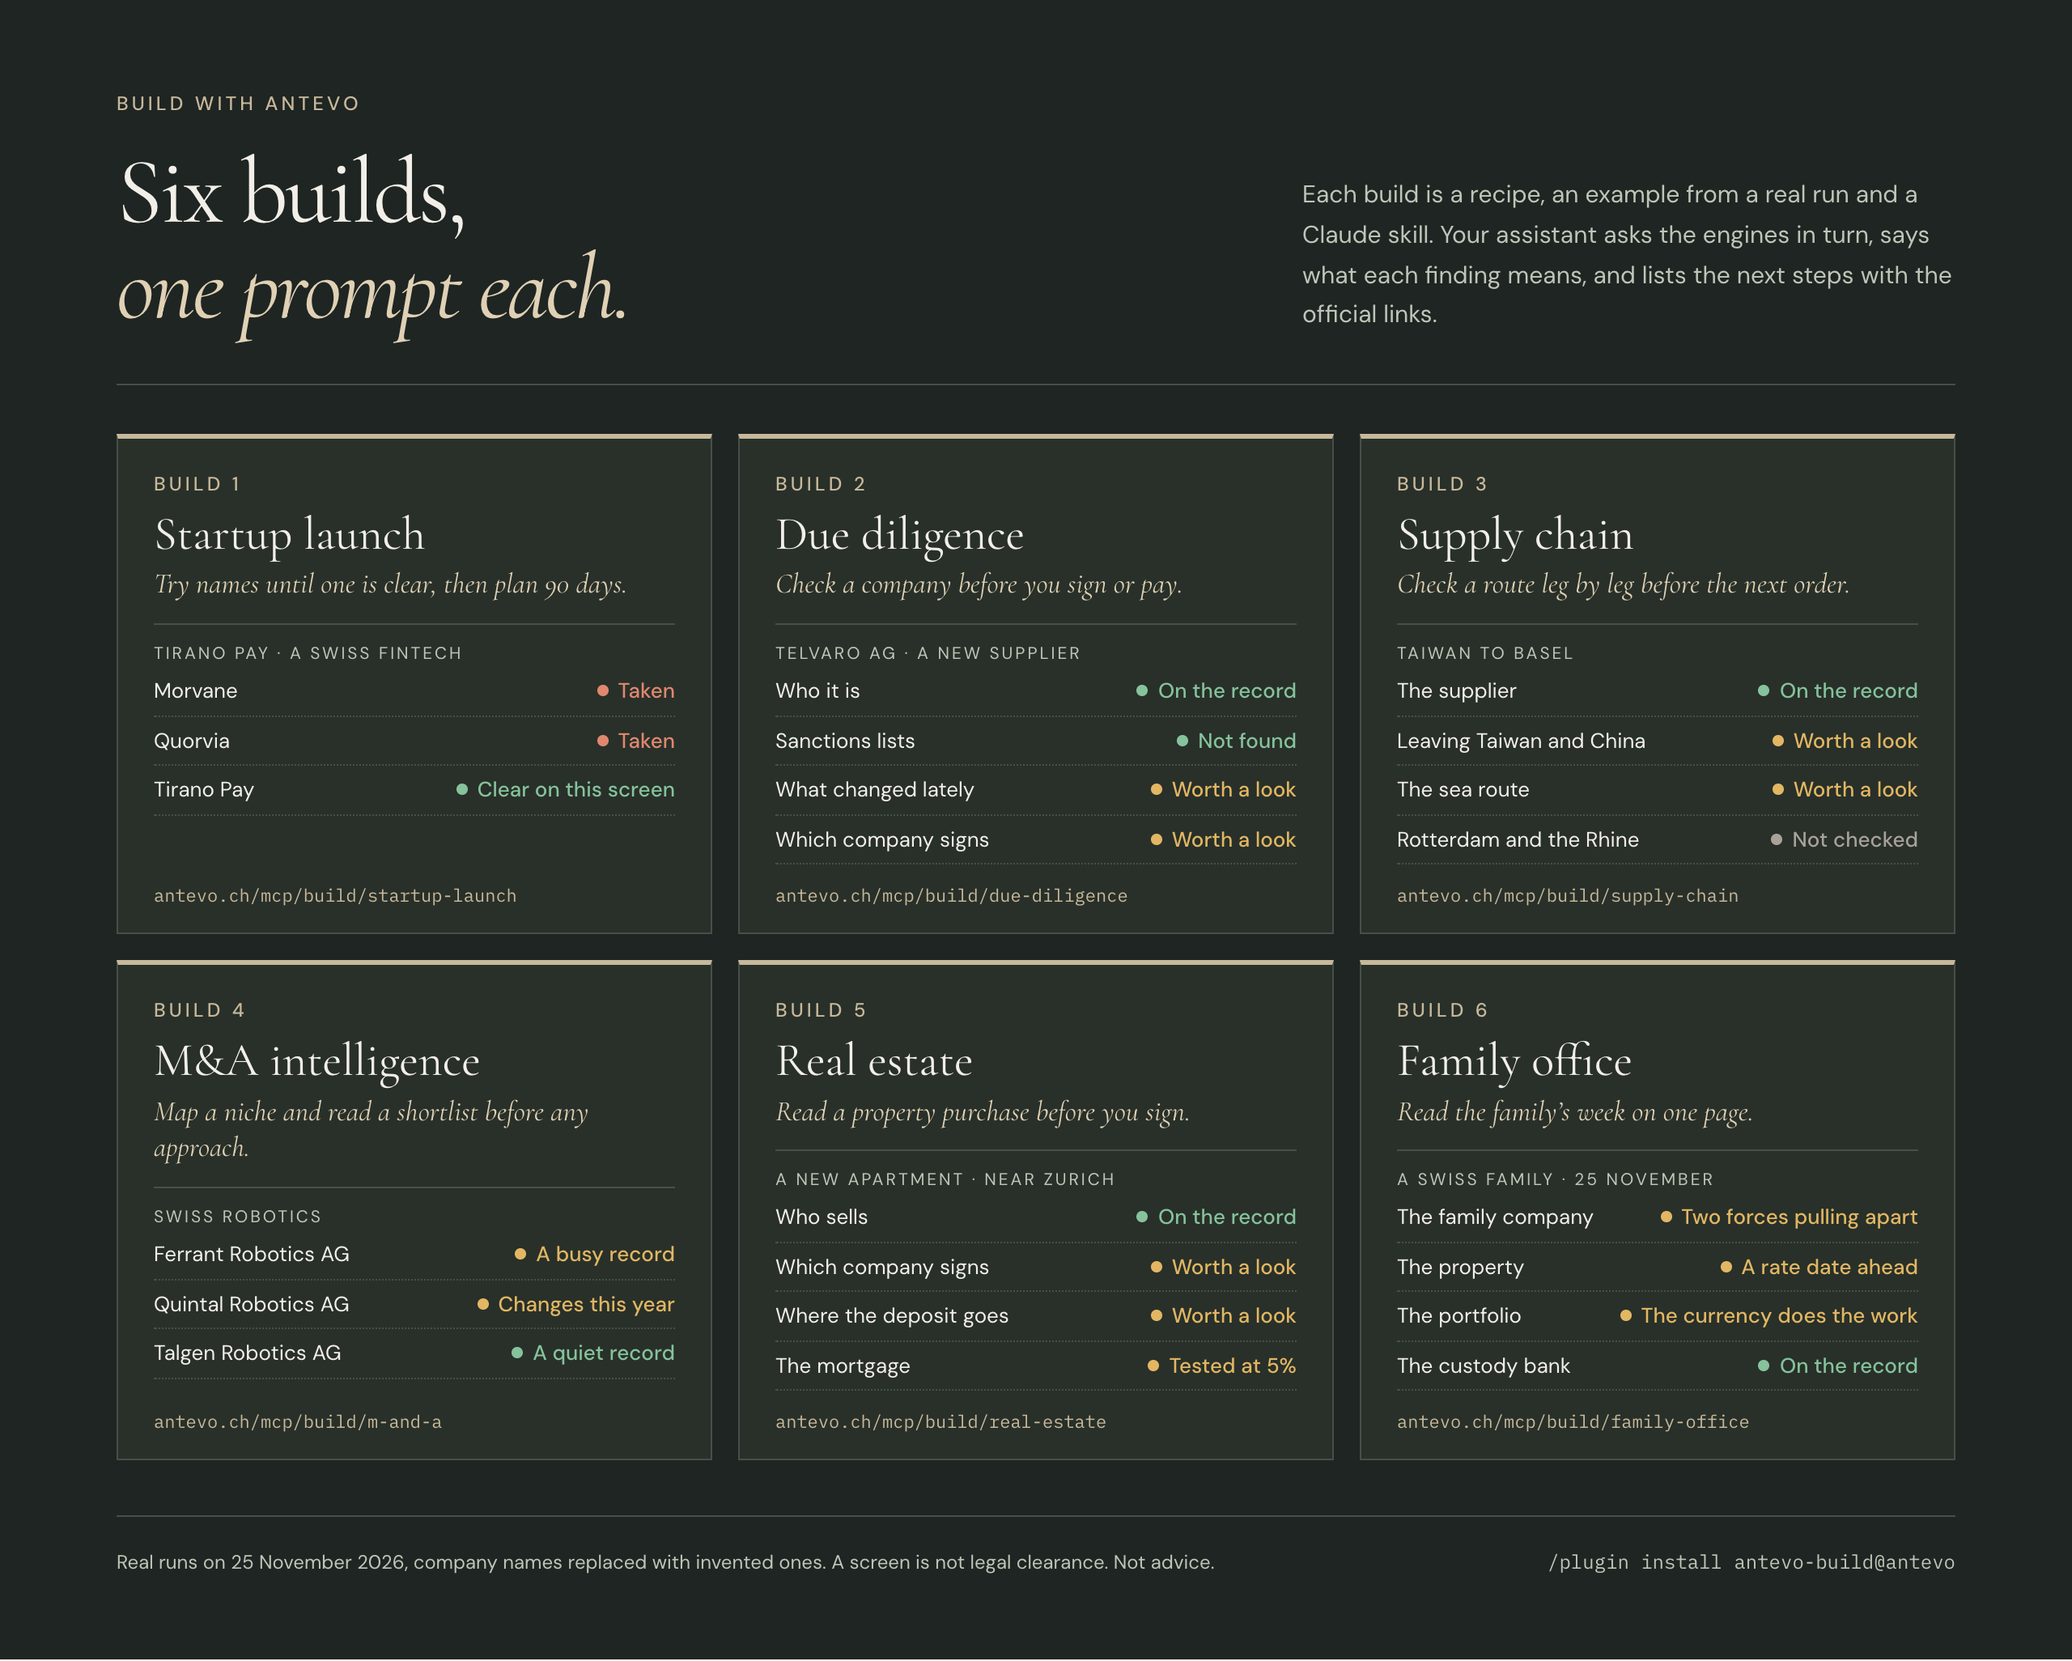
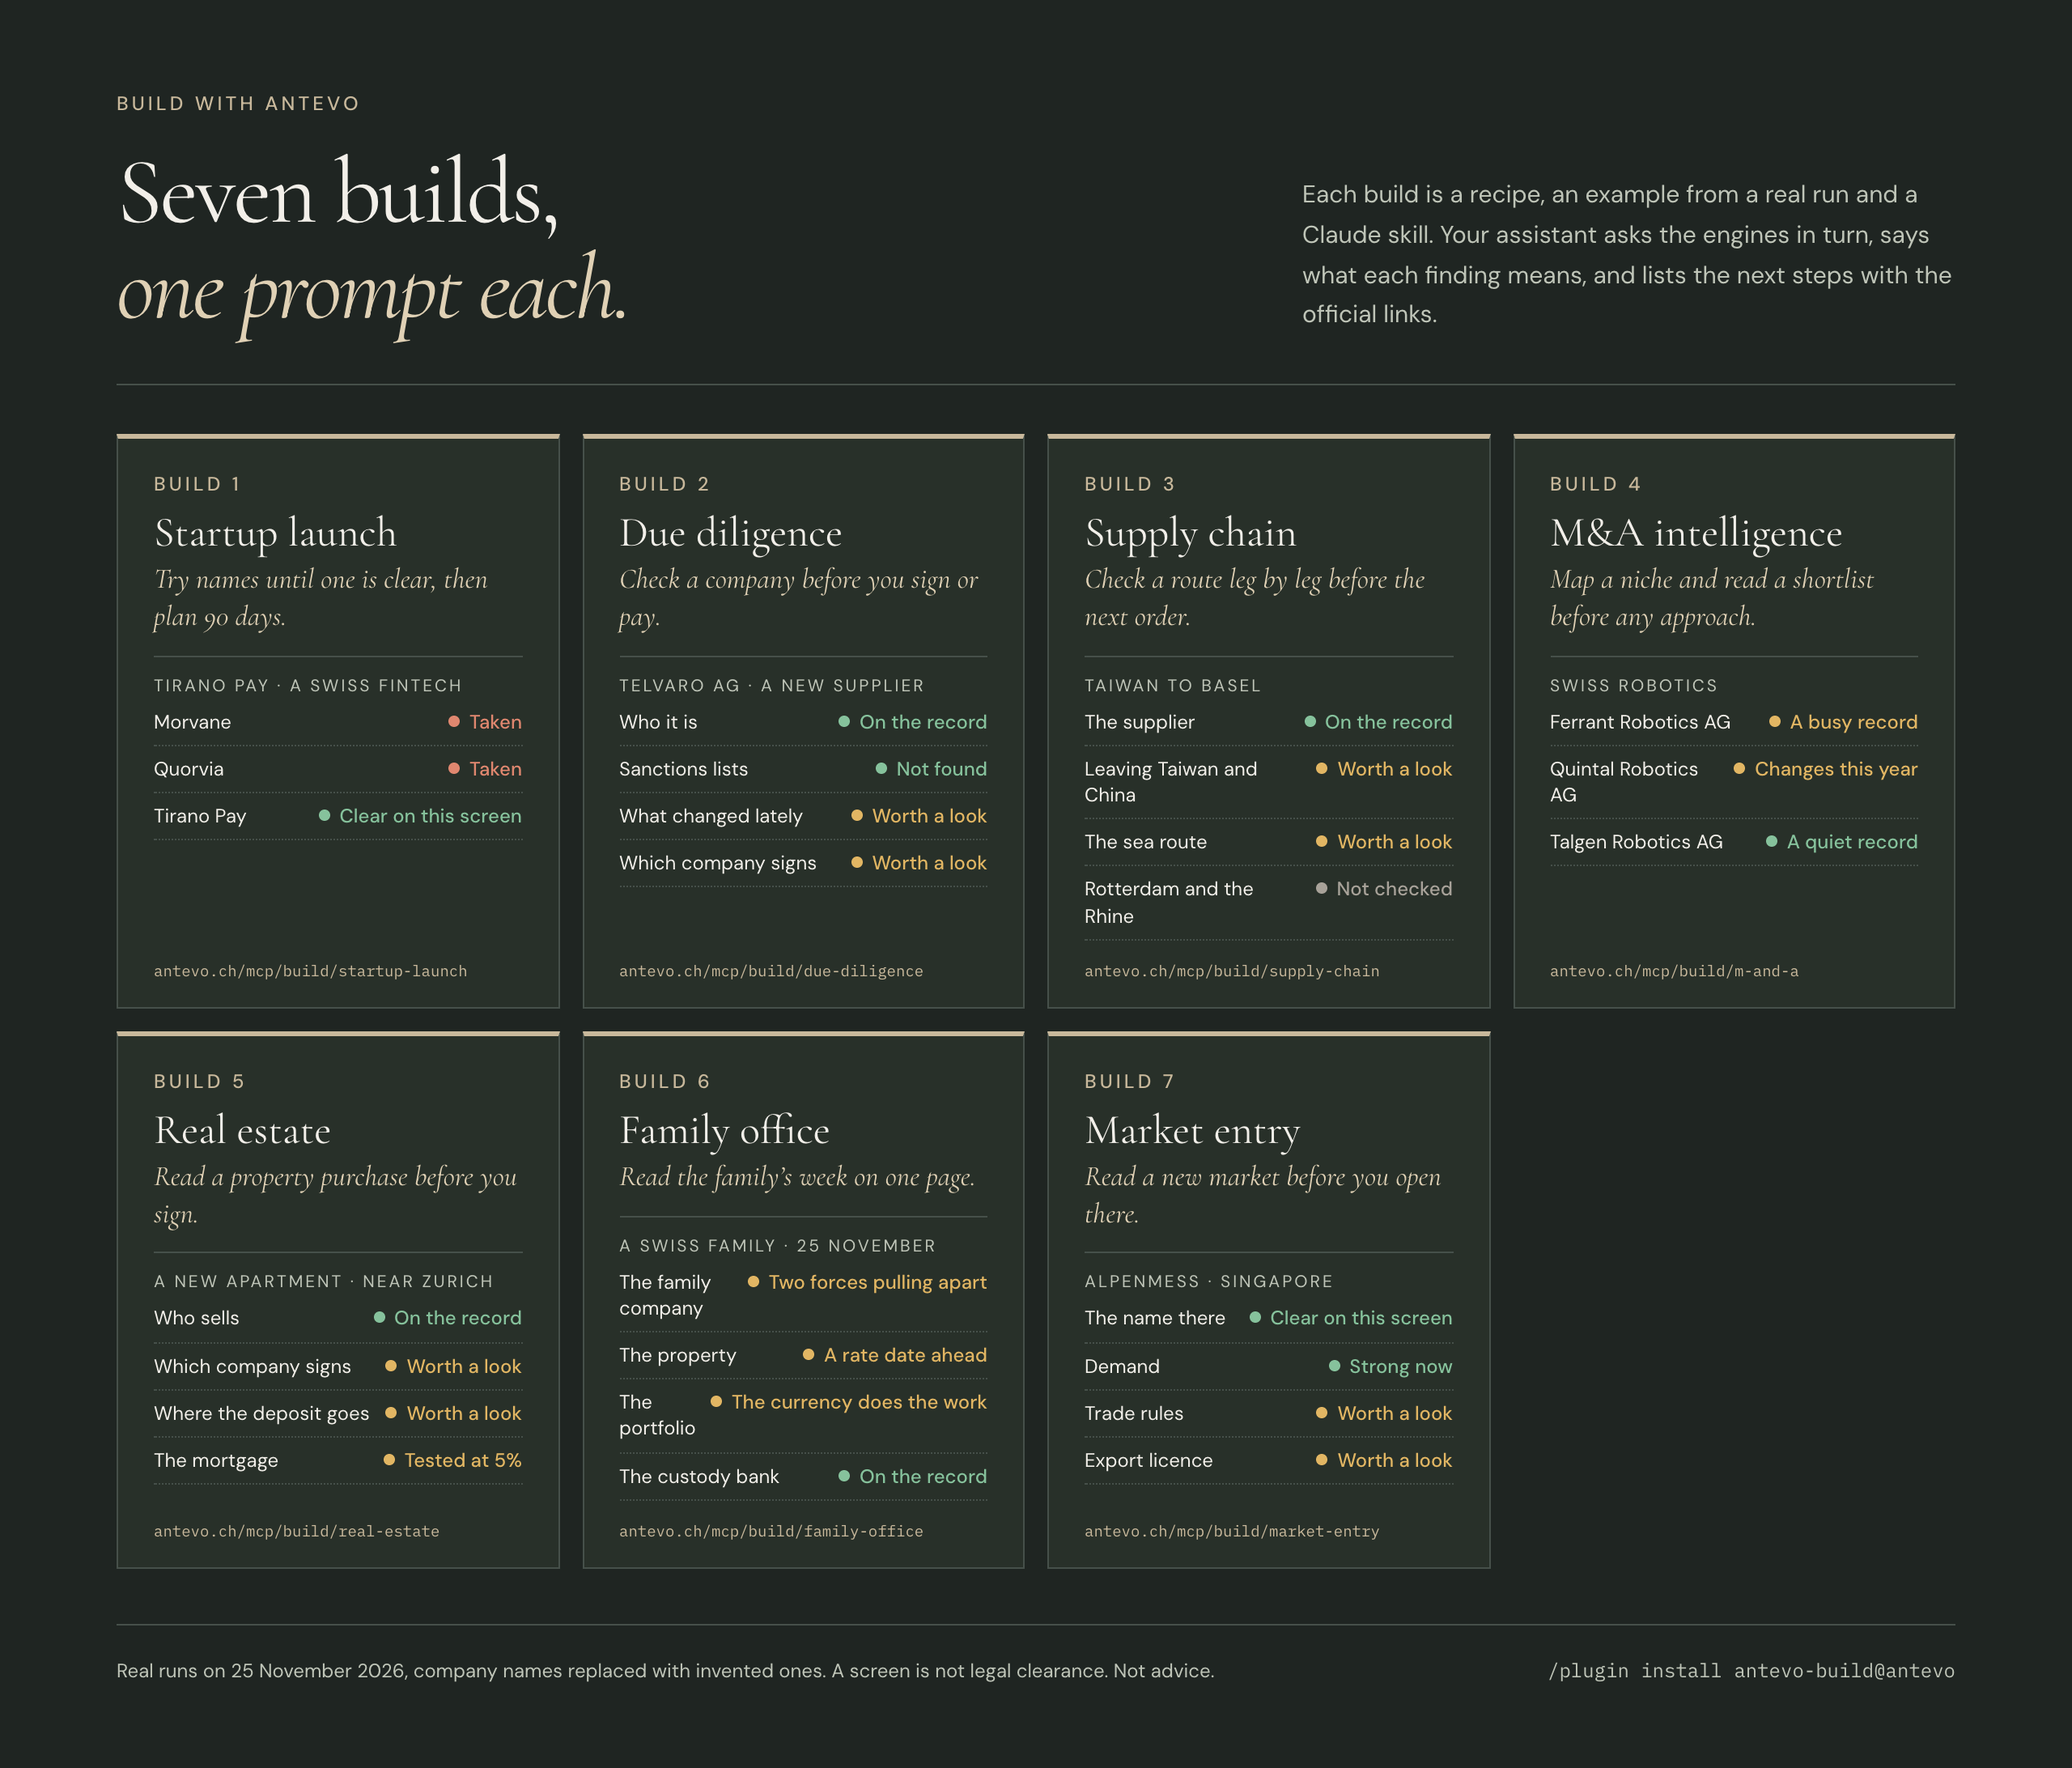
Profile: seven builds, 45 skills, Market entry

diff --git a/profile/README.md b/profile/README.md
@@ -20,7 +20,7 @@
 
 **Antevo makes intelligence products for trademarks, company records, private wealth and market risk.** It connects developments in the world to the things you own, manage and protect, with the record behind each connection. Bring it into the assistant you already use: Claude, ChatGPT, Cursor, VS Code, Gemini CLI, Kiro, or a terminal. [What is Antevo?](https://antevo.ch/about/)
 
-<p align="center"><b><a href="https://github.com/ANTEVO-CH/plugins">Start with ANTEVO-CH/plugins →</a></b><br><sub>Eight plugins and 44 skills for Claude, one install each</sub></p>
+<p align="center"><b><a href="https://github.com/ANTEVO-CH/plugins">Start with ANTEVO-CH/plugins →</a></b><br><sub>Eight plugins and 45 skills for Claude, one install each</sub></p>
 
 ## The engines
 
@@ -53,11 +53,11 @@ All nine are listed in the official [MCP Registry](https://registry.modelcontext
 <a href="https://antevo.ch/mcp/build/">
 <picture>
   <source media="(prefers-color-scheme: dark)" srcset="https://raw.githubusercontent.com/ANTEVO-CH/.github/main/profile/assets/builds-dark.png">
-  <img alt="Six builds, one prompt each: Startup launch, Due diligence, Supply chain, M&A intelligence, Real estate and Family office, each with its real run of 25 November 2026." src="https://raw.githubusercontent.com/ANTEVO-CH/.github/main/profile/assets/builds-light.png" width="100%">
+  <img alt="Seven builds, one prompt each: Startup launch, Due diligence, Supply chain, M&A intelligence, Real estate, Family office and Market entry, each with its real run of 25 November 2026." src="https://raw.githubusercontent.com/ANTEVO-CH/.github/main/profile/assets/builds-light.png" width="100%">
 </picture>
 </a>
 
-Each build is a recipe, an example from a real run and a Claude skill in `antevo-build`. [Startup launch](https://antevo.ch/mcp/build/startup-launch/) · [Due diligence](https://antevo.ch/mcp/build/due-diligence/) · [Supply chain](https://antevo.ch/mcp/build/supply-chain/) · [M&A intelligence](https://antevo.ch/mcp/build/m-and-a/) · [Real estate](https://antevo.ch/mcp/build/real-estate/) · [Family office](https://antevo.ch/mcp/build/family-office/)
+Each build is a recipe, an example from a real run and a Claude skill in `antevo-build`. [Startup launch](https://antevo.ch/mcp/build/startup-launch/) · [Due diligence](https://antevo.ch/mcp/build/due-diligence/) · [Supply chain](https://antevo.ch/mcp/build/supply-chain/) · [M&A intelligence](https://antevo.ch/mcp/build/m-and-a/) · [Real estate](https://antevo.ch/mcp/build/real-estate/) · [Family office](https://antevo.ch/mcp/build/family-office/) · [Market entry](https://antevo.ch/mcp/build/market-entry/)
 
 ```text
 /plugin marketplace add ANTEVO-CH/plugins
@@ -119,7 +119,7 @@ gemini extensions install https://github.com/ANTEVO-CH/antevo-mcp
 | | |
 |:--|:--|
 | [**antevo-mcp**](https://github.com/ANTEVO-CH/antevo-mcp) | Connection metadata — registry manifests, Cursor plugins, Kiro powers, the Gemini CLI extension and install links. MIT. |
-| [**plugins**](https://github.com/ANTEVO-CH/plugins) | Claude plugins: each connection with its skills, 44 in all, and six builds on top, one install each. |
+| [**plugins**](https://github.com/ANTEVO-CH/plugins) | Claude plugins: each connection with its skills, 45 in all, and seven builds on top, one install each. |
 | [**cli**](https://github.com/ANTEVO-CH/cli) | `@antevo/cli` — the same connections from a terminal, scriptable. |
 
 <br>
